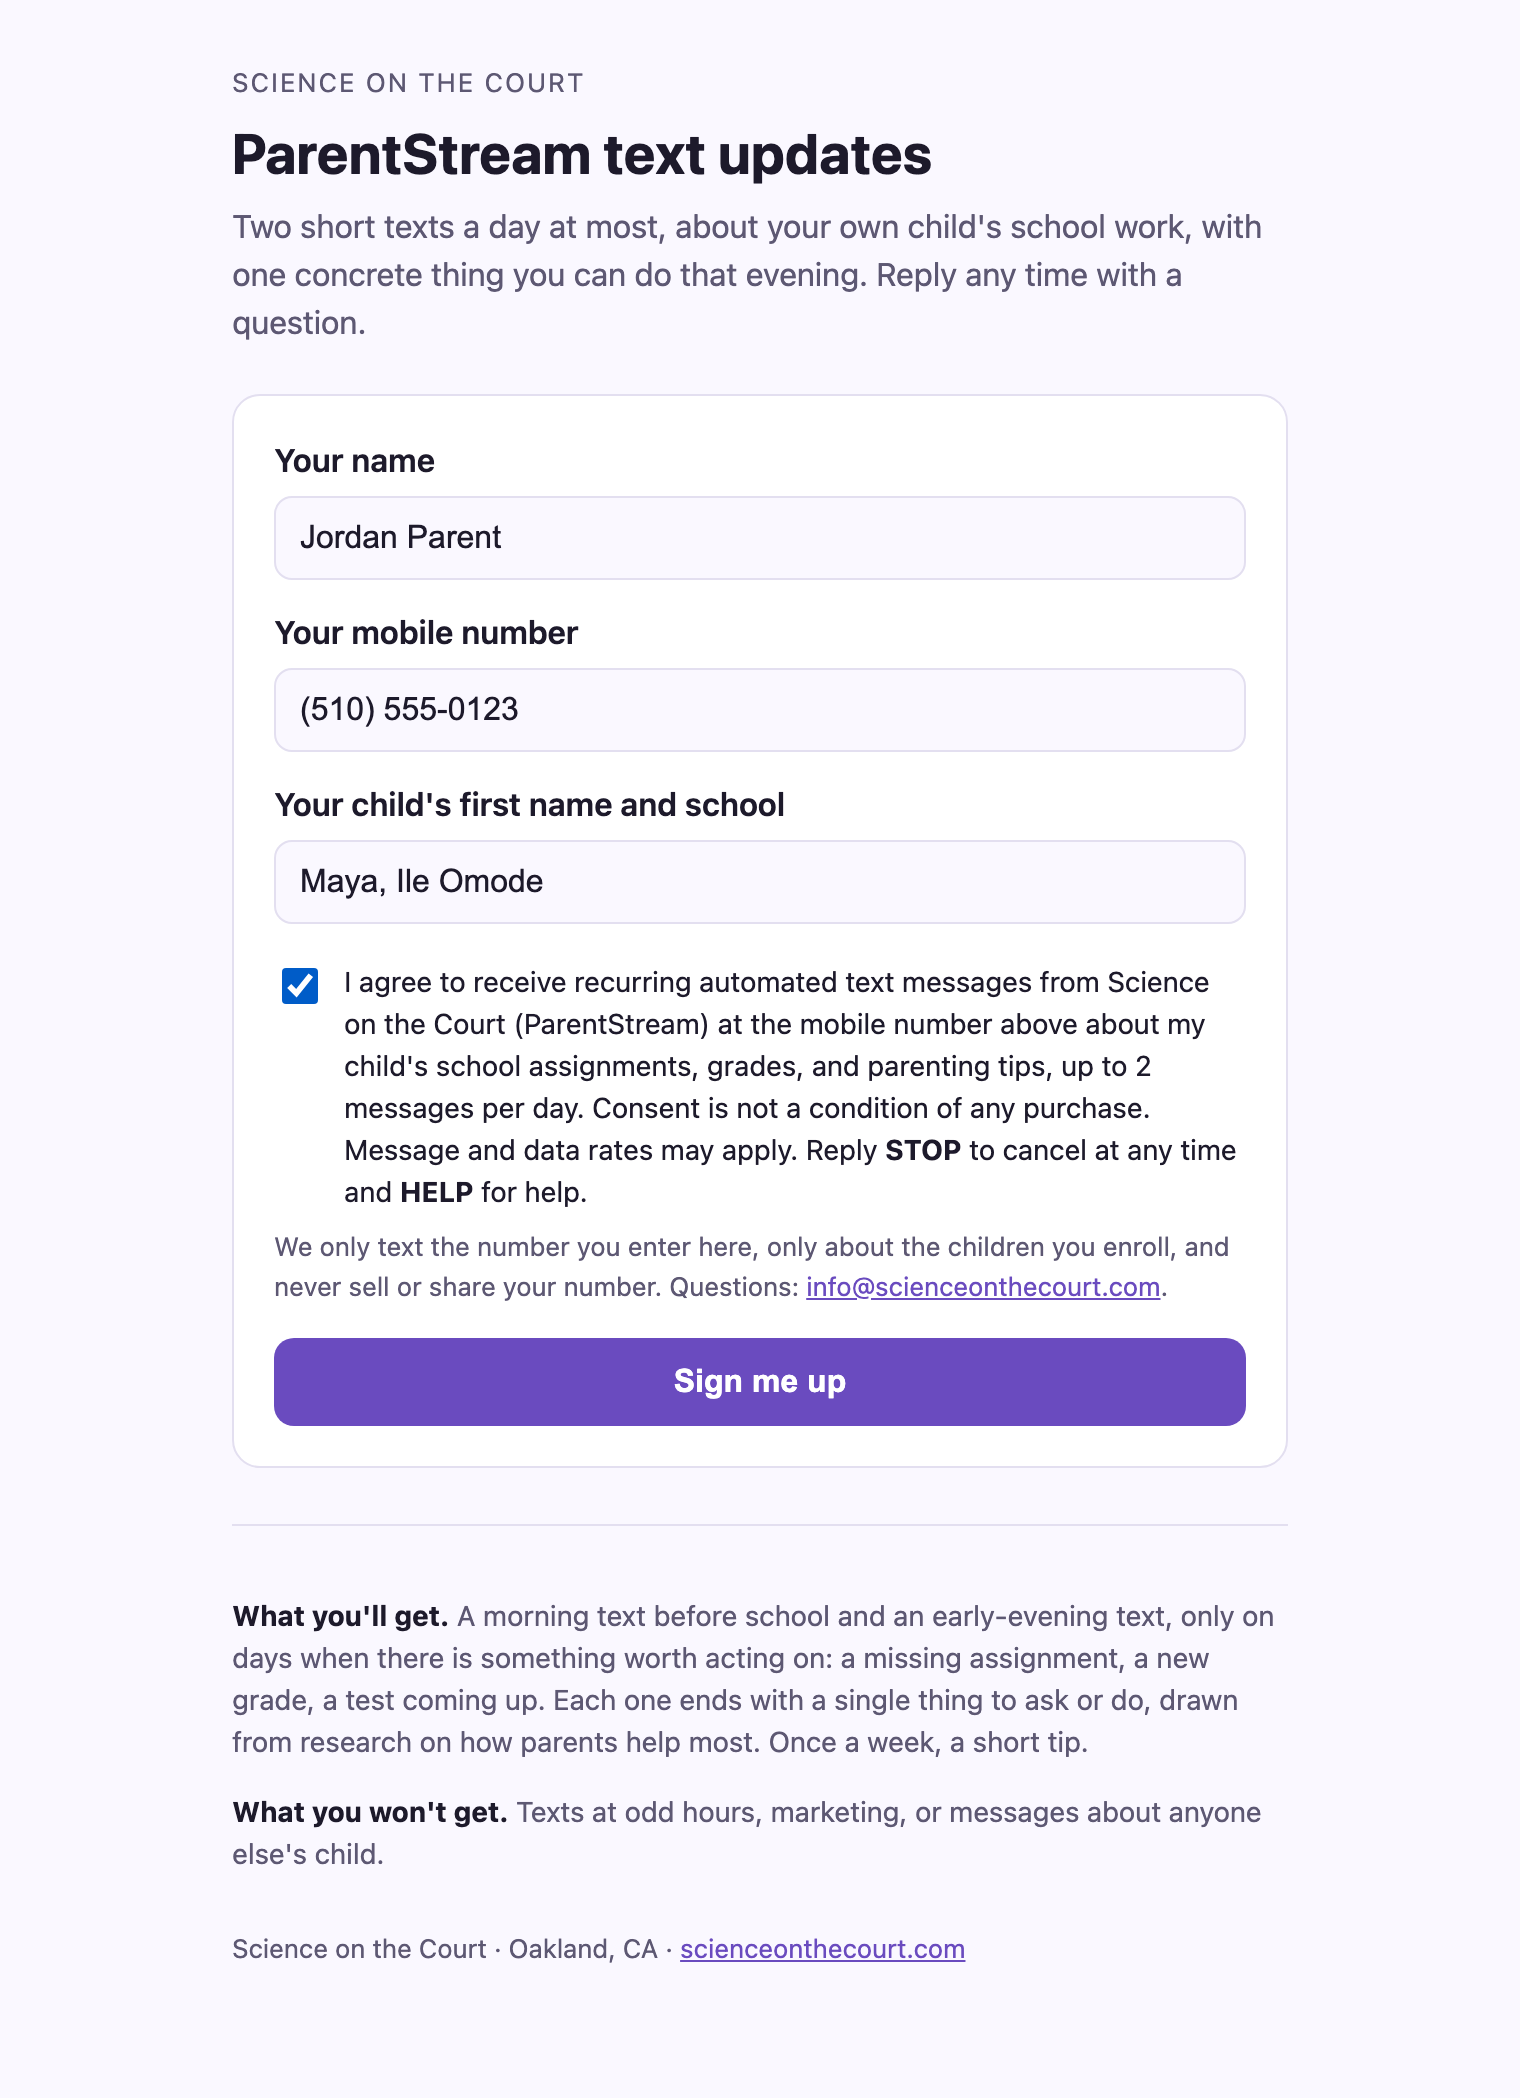
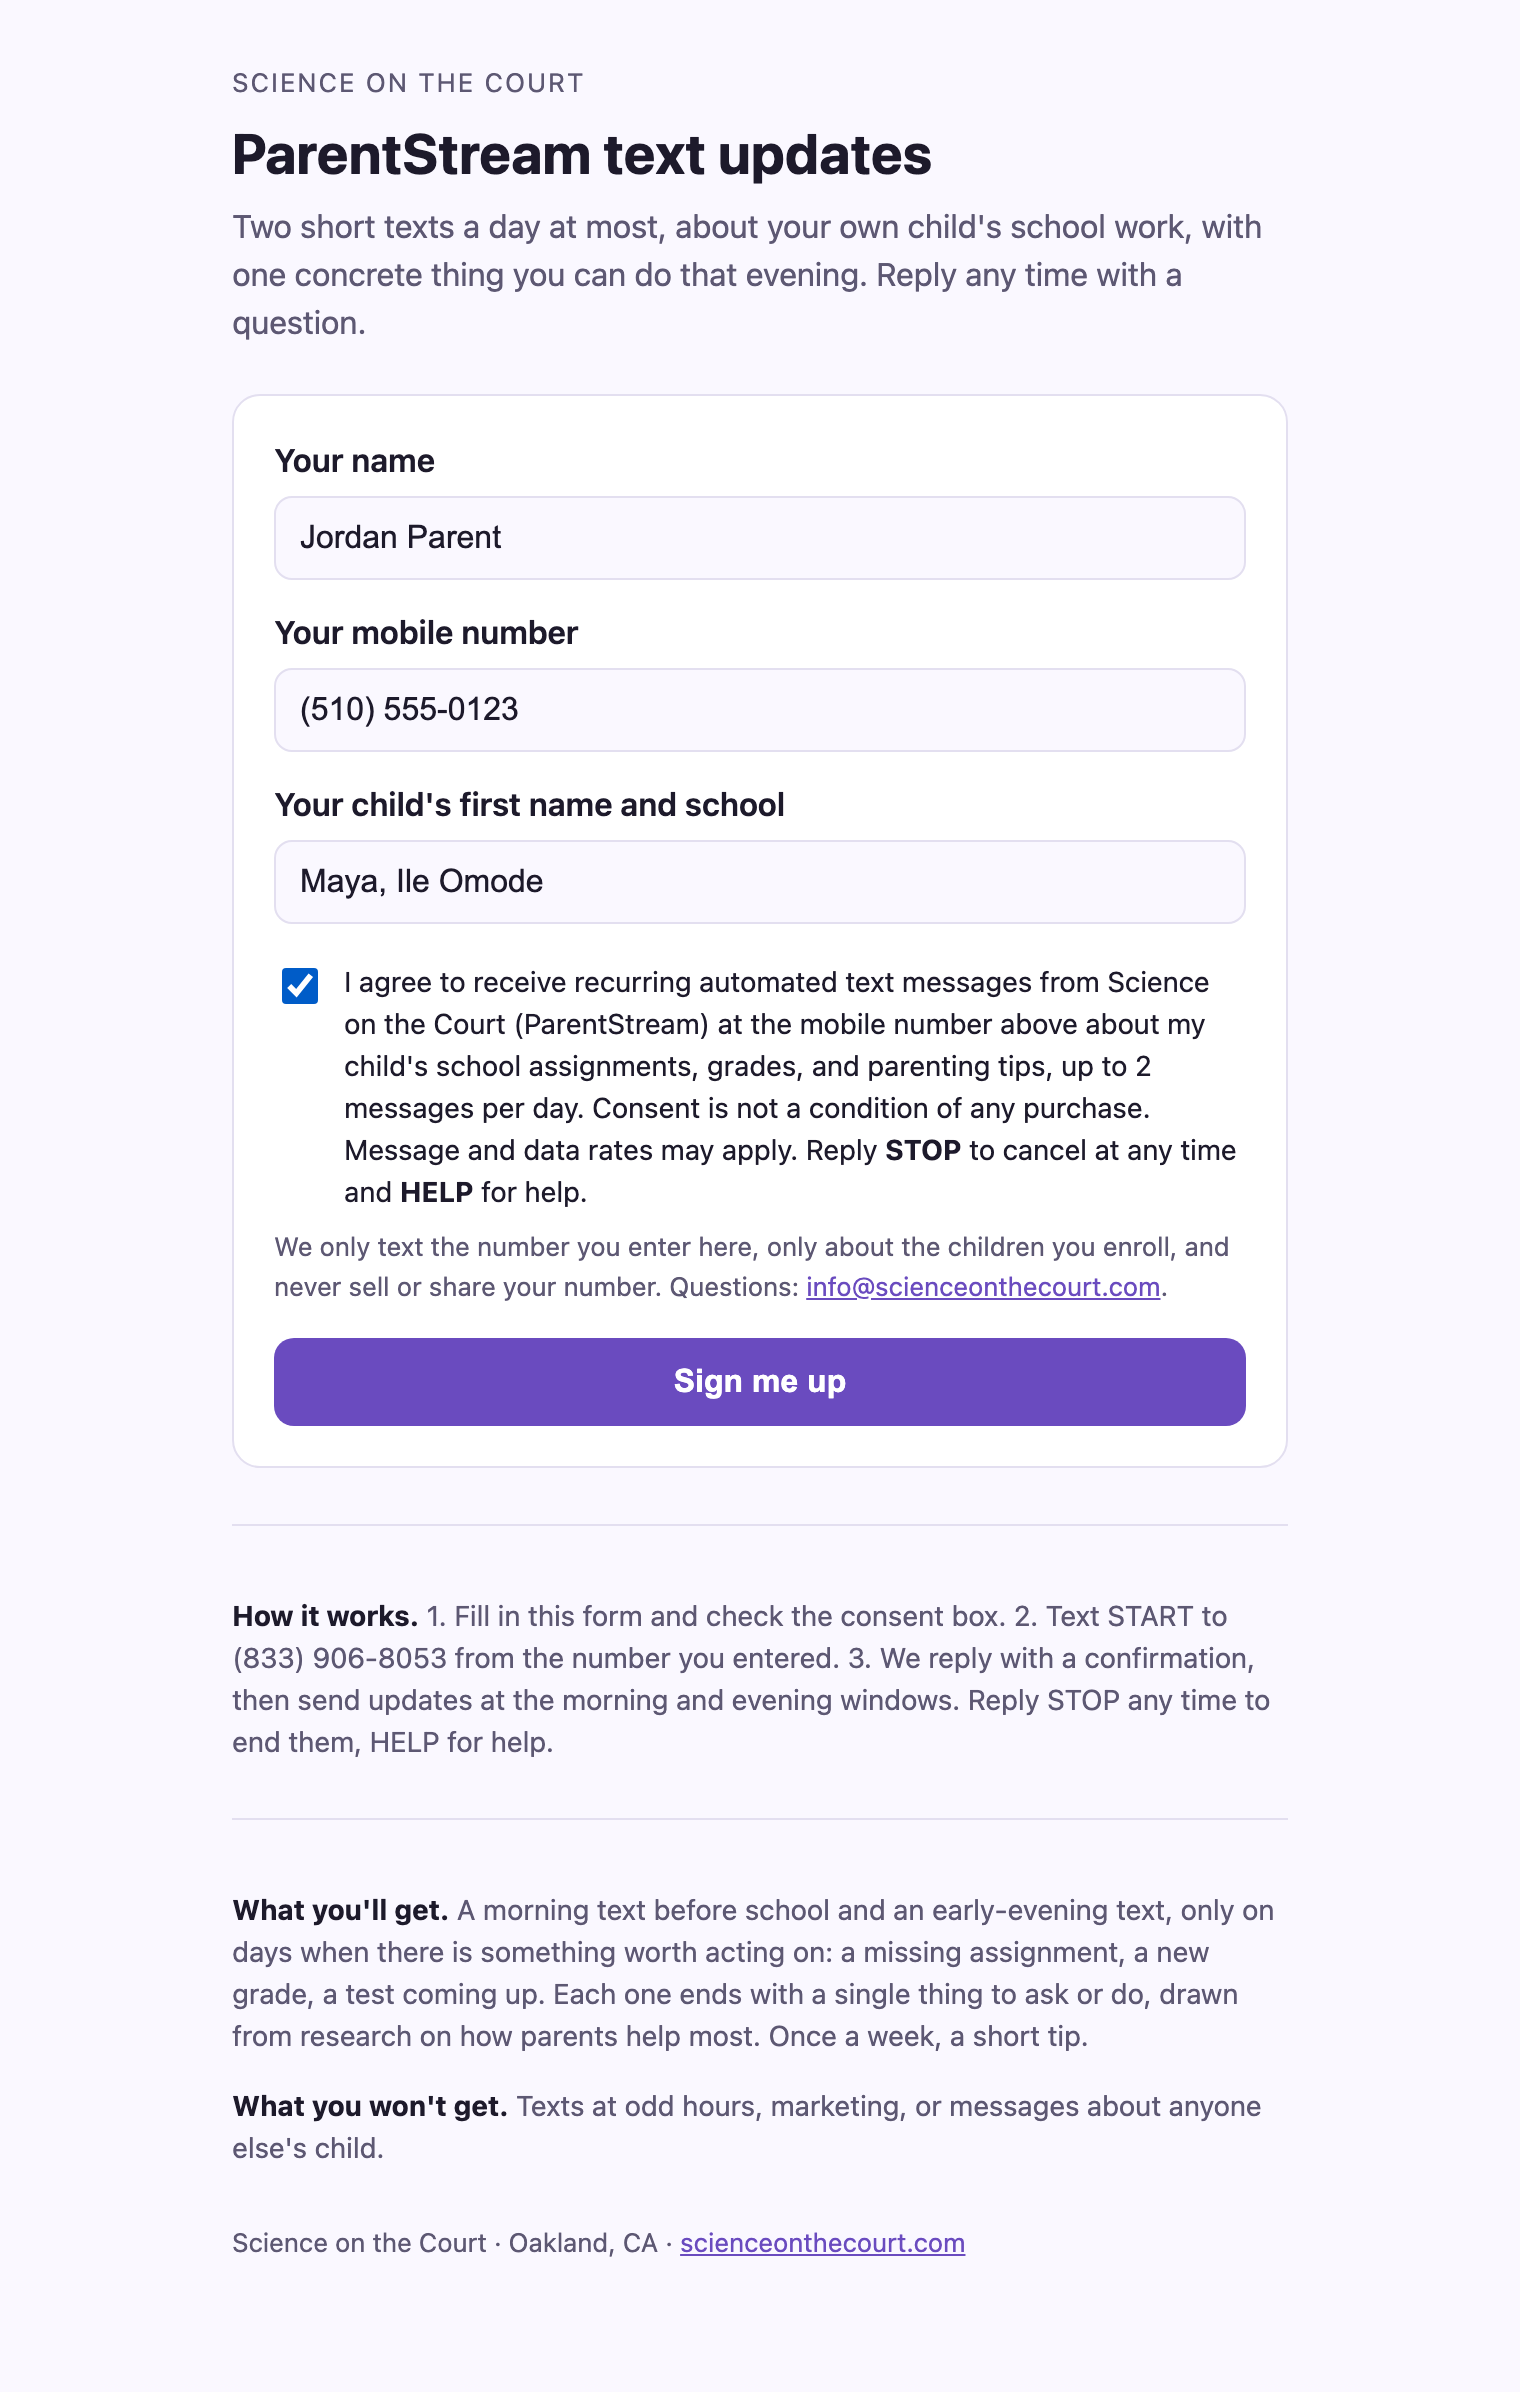
Update parent sign-up page

Changed region(s): [[0.1546, 0.1859, 0.8349, 0.9604], [0.1546, 0.031, 0.8349, 0.1859], [0.3401, 0.9295, 0.6493, 0.9604]]

diff --git a/parentstream/signup/index.html b/parentstream/signup/index.html
@@ -25,6 +25,8 @@
   .fine a { color: var(--accent); }
   button { width:100%; margin-top: 16px; padding: 13px; font-size: 16px; font-weight: 700; border: 0; border-radius: 10px; background: var(--accent); color: var(--accent-fg); cursor: pointer; }
   button[disabled] { opacity: .5; cursor: default; }
+  #done { margin-top: 16px; padding: 12px 14px; border-radius: 10px; background: var(--bg); border: 1px solid var(--line); font-size: 15px; }
+  #done p { margin: 0 0 8px; }
   .what { margin-top: 28px; padding-top: 20px; border-top: 1px solid var(--line); font-size: 14px; color: var(--muted); }
   .what strong { color: var(--fg); }
   footer { margin-top: 28px; font-size: 13px; color: var(--muted); }
@@ -53,7 +55,15 @@
     <p class="fine">We only text the number you enter here, only about the children you enroll, and never sell or share your number. Questions: <a href="mailto:info@scienceonthecourt.com">info@scienceonthecourt.com</a>.</p>
 
     <button type="submit" id="go" disabled>Sign me up</button>
+    <div id="done" hidden>
+      <p><strong>One more step, from your phone.</strong> Text <strong>START</strong> to <strong>(833) 906-8053</strong>. That text is your opt-in record. You'll get a confirmation reply within a minute, and your first update at the next morning or evening window.</p>
+      <p class="fine">On a phone, the button above opens your messages app with the text ready to send. On a computer, send it from your phone by hand.</p>
+    </div>
   </form>
+
+  <div class="what">
+    <p><strong>How it works.</strong> 1. Fill in this form and check the consent box. 2. Text START to (833) 906-8053 from the number you entered. 3. We reply with a confirmation, then send updates at the morning and evening windows. Reply STOP any time to end them, HELP for help.</p>
+  </div>
 
   <div class="what">
     <p><strong>What you'll get.</strong> A morning text before school and an early-evening text, only on days when there is something worth acting on: a missing assignment, a new grade, a test coming up. Each one ends with a single thing to ask or do, drawn from research on how parents help most. Once a week, a short tip.</p>
@@ -70,8 +80,12 @@
     e.preventDefault();
     const body = encodeURIComponent(`START ParentStream. ${f.name.value.trim()} for ${f.kid.value.trim()}.`);
     // Finishing the sign-up sends a text from the parent's own phone: that text is the opt-in record.
-    window.location.href = `sms:${window.PARENTSTREAM_NUMBER || '+18339068053'}?&body=${body}`;
-    go.textContent = 'Opening your messages app…';
+    document.getElementById('done').hidden = false;
+    go.textContent = 'Now text START from your phone';
+    go.disabled = true;
+    if (/iPhone|iPad|Android/i.test(navigator.userAgent)) {
+      window.location.href = `sms:+18339068053?&body=${body}`;
+    }
   });
 </script>
 </body>
